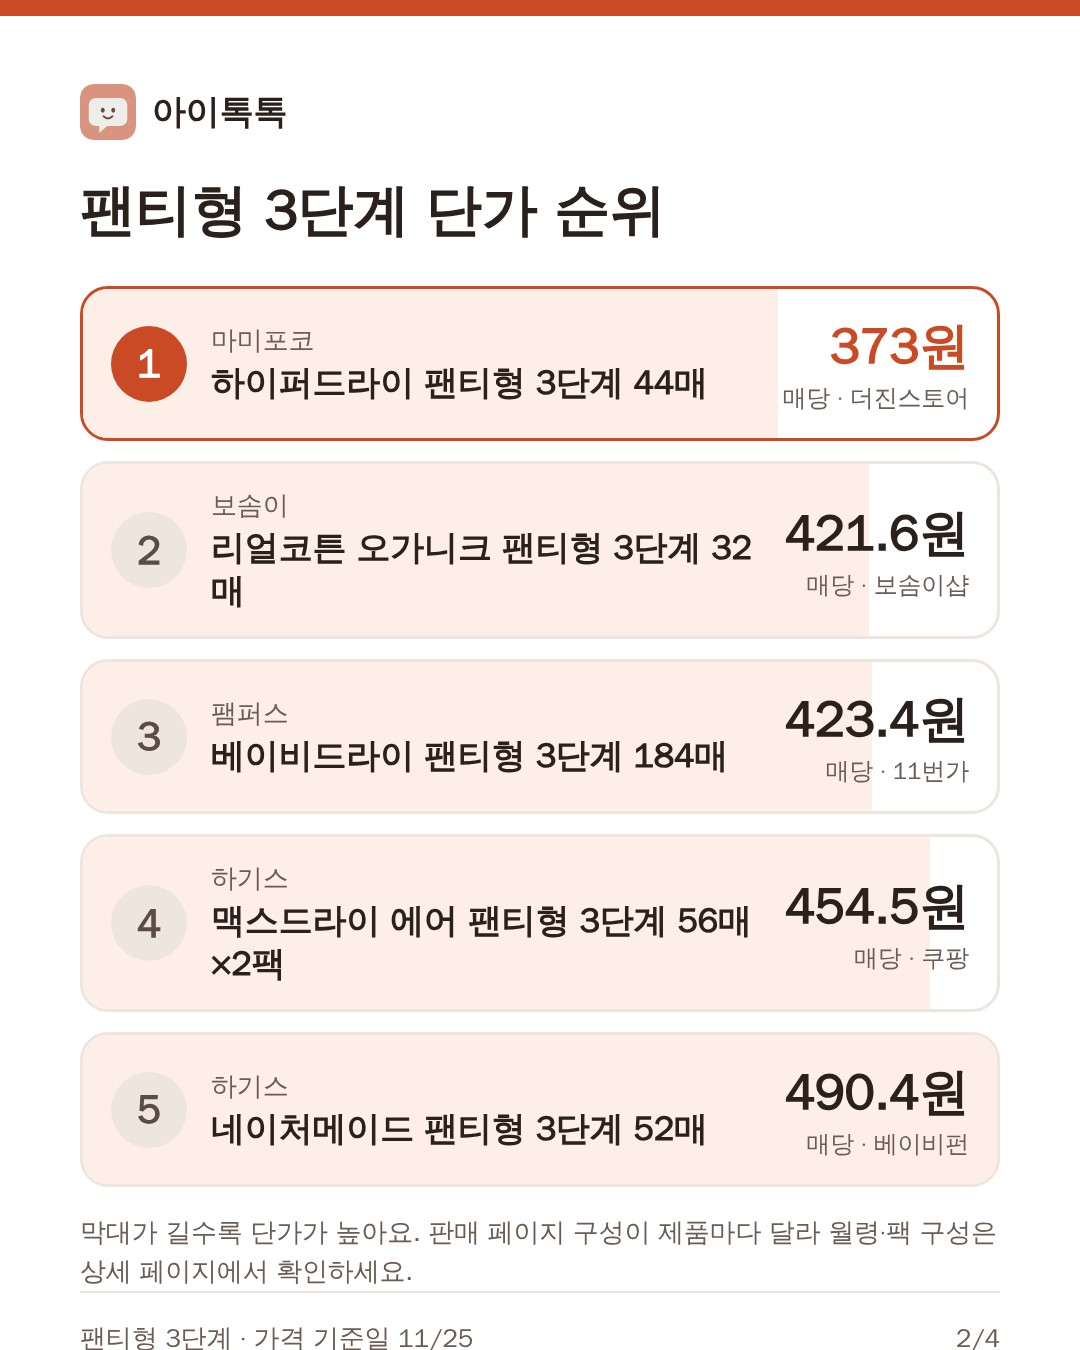
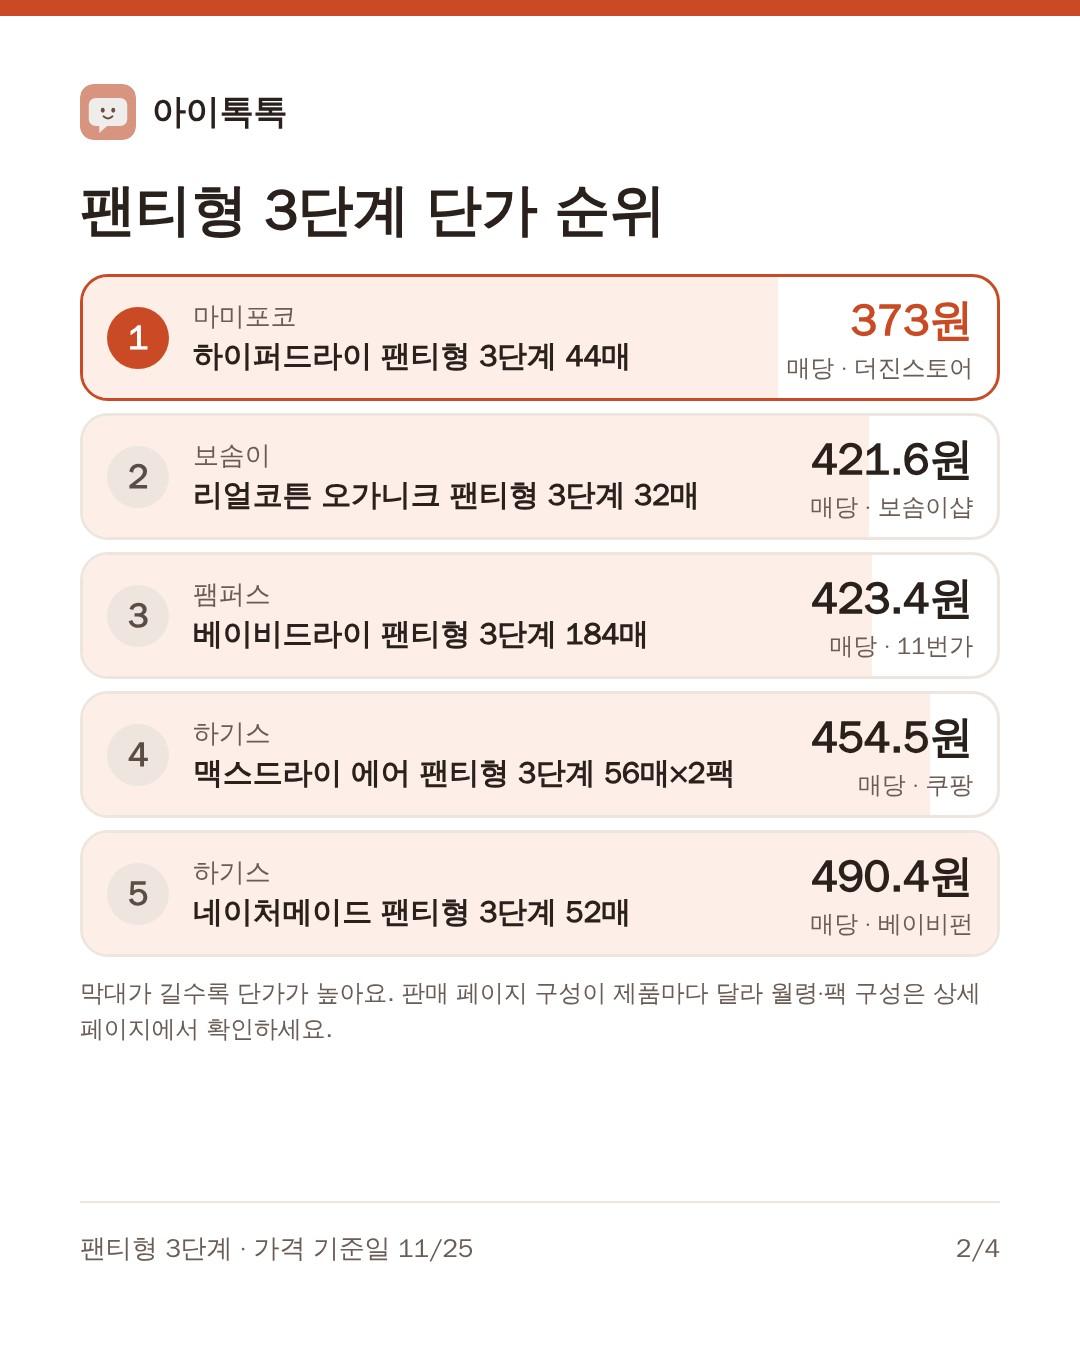
카드뉴스: 행이 5개 이상일 때 간격 축소
Claude-Session: https://claude.ai/code/session_016Ew2Yh3ahT5E3VX6syzLQ7

diff --git a/scripts/make_cardnews.js b/scripts/make_cardnews.js
@@ -92,6 +92,7 @@ h2{font-size:56px;font-weight:900;line-height:1.25}
 .pr b{display:block;font-size:50px;font-weight:900;font-variant-numeric:tabular-nums;color:#2b211c}
 .row.first .pr b{color:var(--c)}
 .pr span{display:block;font-size:24px;color:#6b5d55;margin-top:2px}
+.dense .rows{gap:12px;margin-top:28px}.dense .row{padding:14px 24px}.dense .rank{width:62px;height:62px;font-size:34px}.dense .nm span{font-size:30px}.dense .pr b{font-size:44px}.dense .note{margin-top:18px;font-size:24px}
 .note{font-size:26px;color:#6b5d55;line-height:1.5;margin-top:26px}
 ul.rules{list-style:none;margin-top:44px;display:flex;flex-direction:column;gap:26px}
 ul.rules li{font-size:38px;line-height:1.45;padding-left:64px;position:relative;font-weight:600}
@@ -137,7 +138,7 @@ function slides(g, logo) {
     out.push(shell(g, `${brandHead(logo)}<h2 style="margin-top:36px">${esc(g.title)} 단가 순위${pages > 1 ? ` (${i + 1}/${pages})` : ''}</h2>
       <div class="rows">${rows}</div>
       <p class="note">${i === 0 ? '막대가 길수록 단가가 높아요. ' : ''}판매 페이지 구성이 제품마다 달라 월령·팩 구성은 상세 페이지에서 확인하세요.</p>
-      ${foot(g, 2 + i, total)}`));
+      ${foot(g, 2 + i, total)}`, part.length >= 5 ? 'dense' : ''));
   }
 
   const health = g.cat === 'formula' ? '<div class="warn">분유 선택·전환은 아기마다 달라요. 가격만 보고 바꾸지 말고 소아청소년과와 상담하세요. 단계별 월령 표기는 브랜드마다 다를 수 있어요.</div>' : '';
